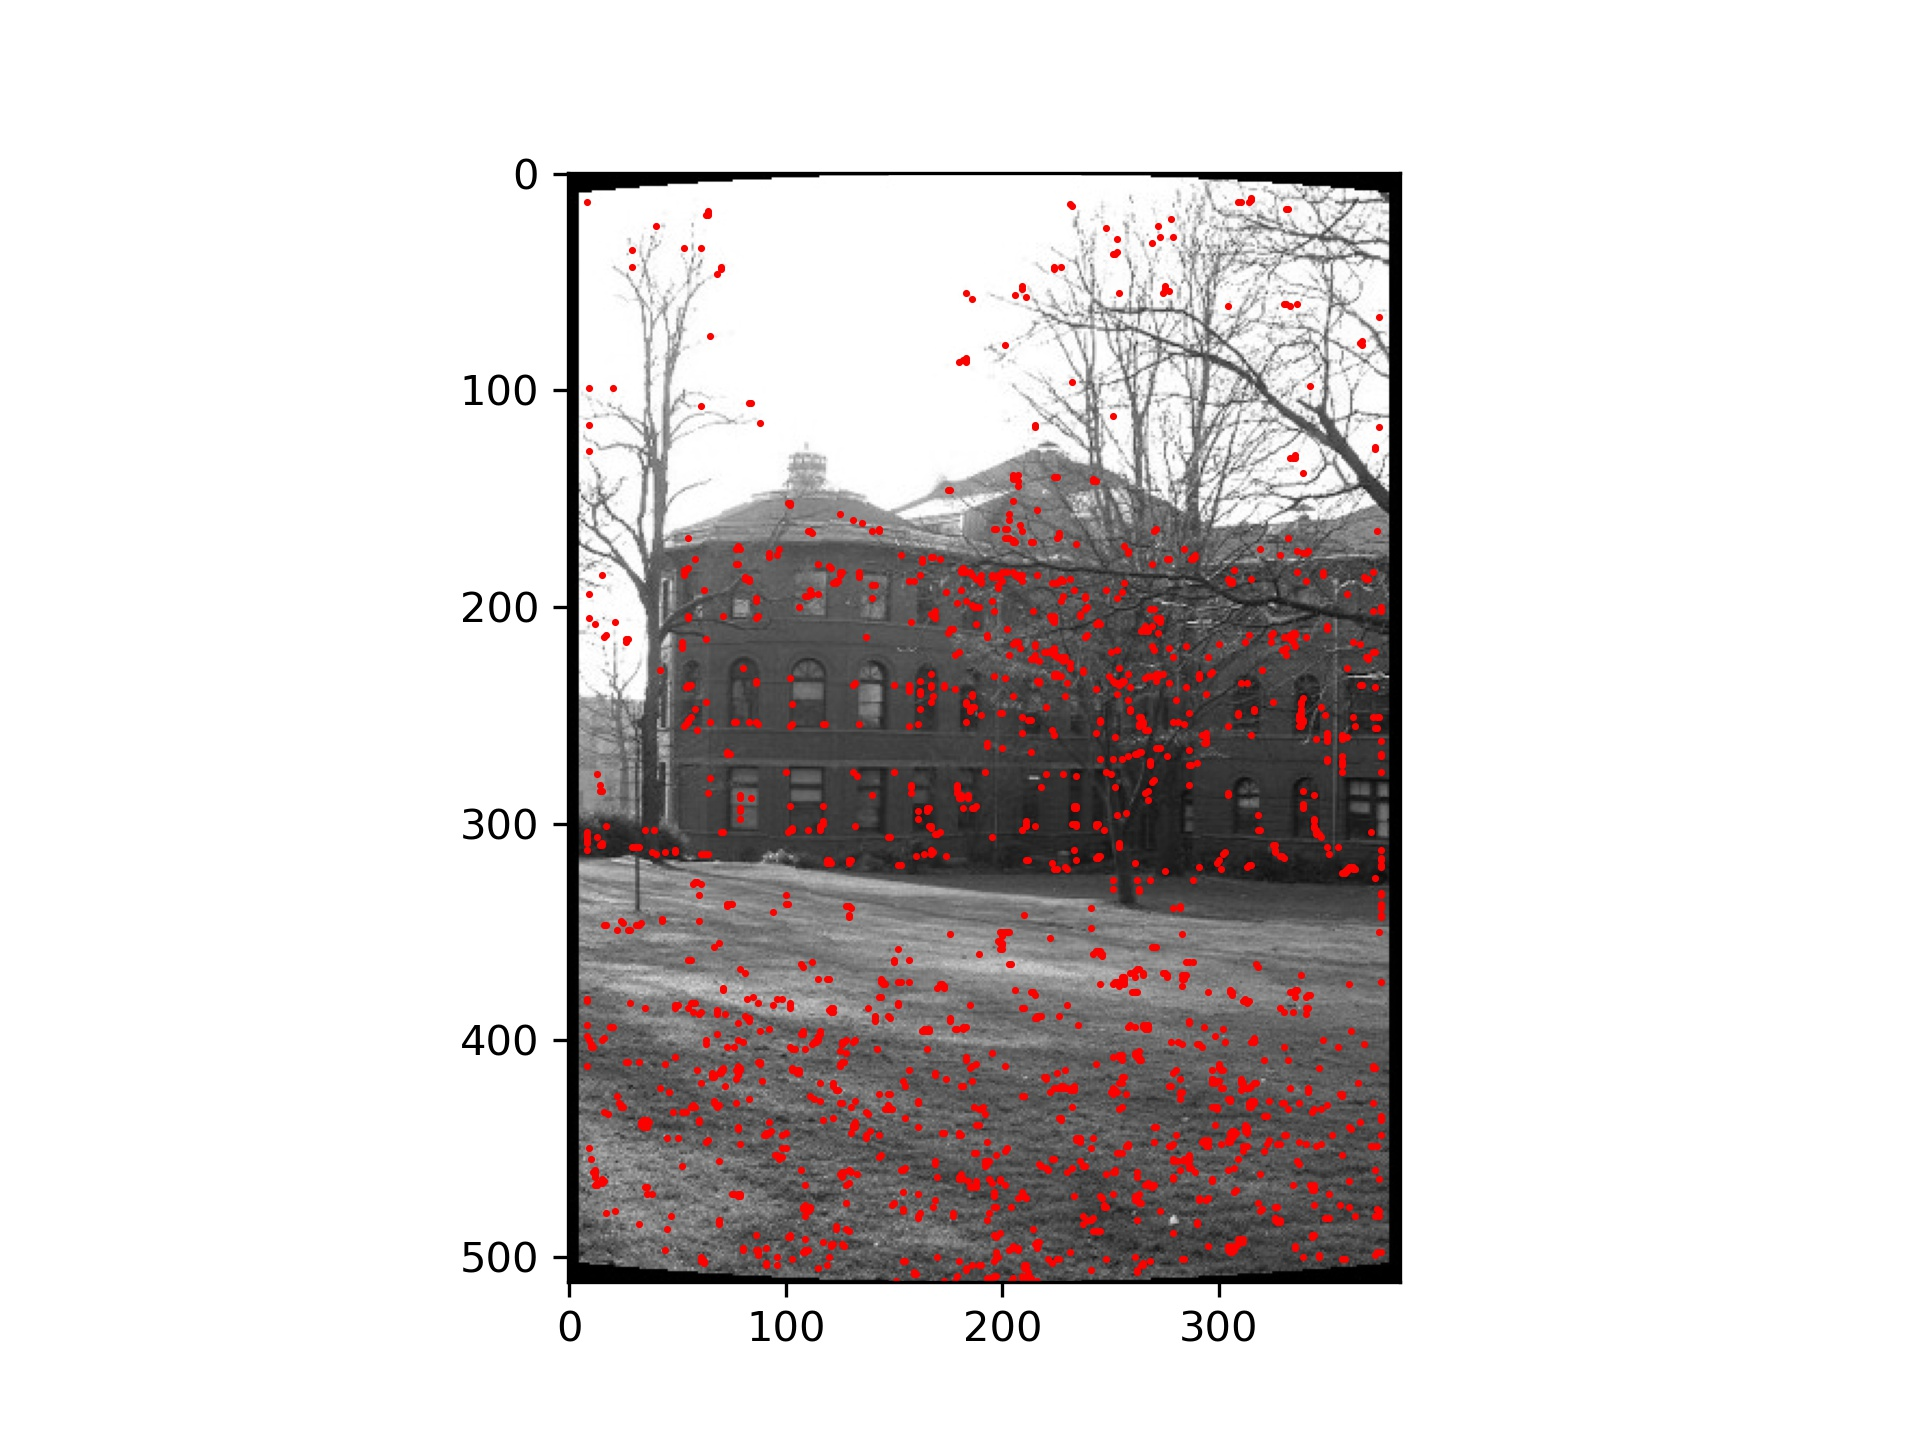
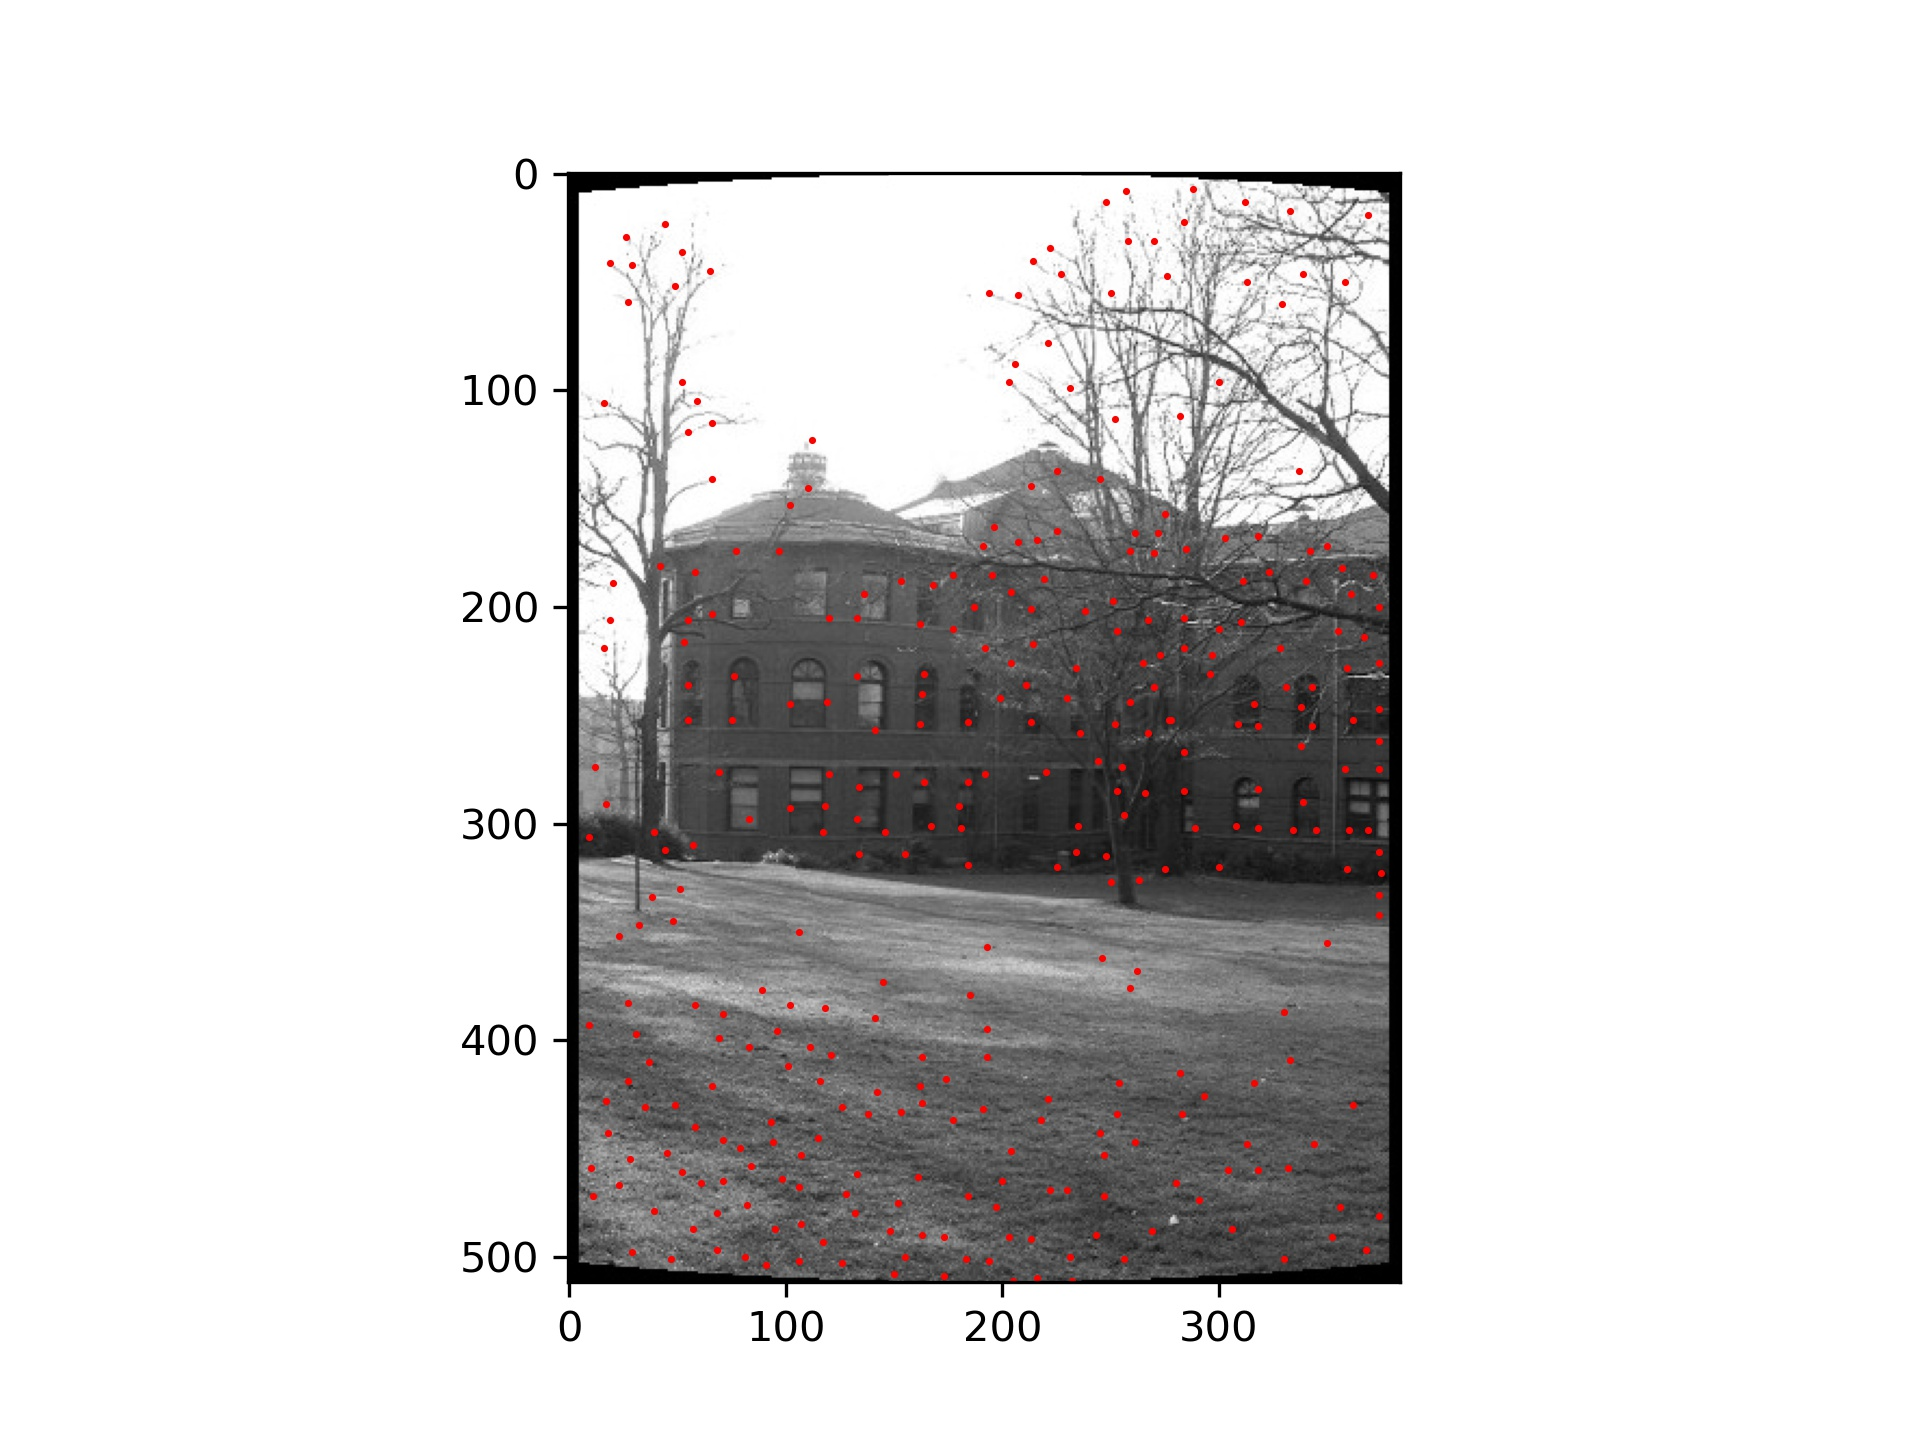
non-maximal suppression

diff --git a/ImageStitching/code/harris.py b/ImageStitching/code/harris.py
@@ -11,10 +11,18 @@ class HarrisCornerDetector:
             image = cv2.cvtColor(image, cv2.COLOR_BGR2GRAY)
         self.unblurred = image.astype(np.float64)
         self.output_path = output_path
+        self.height, self.width = self.unblurred.shape
+        mk_parent_dir(output_path)
     
+    def get_feature_map(self, guassian_window_size, gaussian_sigma, harris_k, nms_window_size, feature_map_path=None):
+        harris.denoise(window_size=guassian_window_size, sigma=gaussian_sigma)
+        harris.derivatives()
+        harris.gaussian_conv(window_size=guassian_window_size, sigma=gaussian_sigma)
+        harris.feature_response(k=harris_k, nms_window_size=nms_window_size, feature_map_path=feature_map_path)
+
     def denoise(self, window_size, sigma):
         self.image = cv2.GaussianBlur(self.unblurred, (window_size, window_size), sigmaX=sigma)
-    
+
     def derivatives(self):
         self.Ix = cv2.Sobel(self.image, cv2.CV_64F, dx=1, dy=0, ksize=3)
         self.Iy = cv2.Sobel(self.image, cv2.CV_64F, dx=0, dy=1, ksize=3)
@@ -37,18 +45,46 @@ class HarrisCornerDetector:
         self.Sxy = cv2.convertScaleAbs(self.Sxy).astype(np.float64)
         self.Syy = cv2.convertScaleAbs(self.Syy).astype(np.float64)
     
-    def corner_response(self, k, feature_map_path=None):
+    def feature_response(self, k, nms_window_size, feature_map_path=None):
         # k should be between 0.04 and 0.06
         det = self.Sxx * self.Syy - self.Sxy**2
         trace = self.Sxx + self.Syy
         response = det - k * trace**2
         thresh = np.percentile(response, 99)
-        corner = (response > thresh)
+        feature = (response > thresh)
+        feature = self.non_maximal_suppression(response, feature, nms_window_size)
 
         # show the image with feature points marked
         if feature_map_path is not None:
-            mark_on_img(self.unblurred, corner, path=feature_map_path)
+            mark_on_img(self.unblurred, feature, path=feature_map_path)
+    
+    def non_maximal_suppression(self, response, feature_map, window_size):
+        # check if window size is odd
+        assert(window_size % 2 == 1)
 
+        # check every feature point
+        margin = window_size // 2
+        for r in range(self.height):
+            for c in range(self.width):
+                # continue if not feature point
+                if not feature_map[r, c]:
+                    continue
+                # construct the window
+                up = max(r - margin, 0)
+                down = min(r + margin, self.height-1)
+                left = max(c - margin, 0)
+                right = min(c + margin, self.width-1)
+                # remove feature if not having the largest response within the given window
+                window_max = np.max(response[up:down+1, left:right+1])
+                if response[r, c] < window_max:
+                    feature_map[r, c] = False
+        return feature_map
+
+
+guassian_window_size = 5
+gaussian_sigma = 3
+harris_k = 0.05
+non_maximal_window_size = 15
 if __name__ == '__main__':
 
     # parse command line arguments
@@ -58,18 +94,11 @@ if __name__ == '__main__':
     parser.add_argument('output', help='directory of the output images')
     args = parser.parse_args()
     input_dir = args.input     # eg. ../data/warped/parrington
-    output_dir = args.output   # eg. ../data/output/parrington
+    output_dir = args.output   # eg. ../data/harris/parrington
 
-    # read images
+    # apply harris corner detection
     image_paths = image_paths_under_dir(input_dir)
     for file_name in image_paths:
         image = cv2.imread(f'{input_dir}/{file_name}')
-
-        # harris corner detection
         harris = HarrisCornerDetector(image, output_path=f'{output_dir}/{file_name}')
-        harris.denoise(window_size=5, sigma=1)
-        harris.derivatives()
-        harris.gaussian_conv(window_size=5, sigma=1)
-        harris.corner_response(k=0.05, feature_map_path=f'{output_dir}/feature_{file_name}')
-
-        break
+        feature_map = harris.get_feature_map(guassian_window_size, gaussian_sigma, harris_k, non_maximal_window_size, f'{output_dir}/feature_{file_name}')

diff --git a/ImageStitching/code/cylindrical_warping.py b/ImageStitching/code/cylindrical_warping.py
@@ -43,5 +43,4 @@ if __name__ == '__main__':
     image_paths = image_paths_under_dir(input_dir)
     for i in range(len(image_paths)):
         image = cv2.imread(f'{input_dir}/{image_paths[i]}')
-        warp(image, focal_length, output_path=f'{output_dir}/{image_paths[i]}')
-
+        warped = warp(image, focal_length, output_path=f'{output_dir}/{image_paths[i]}')
